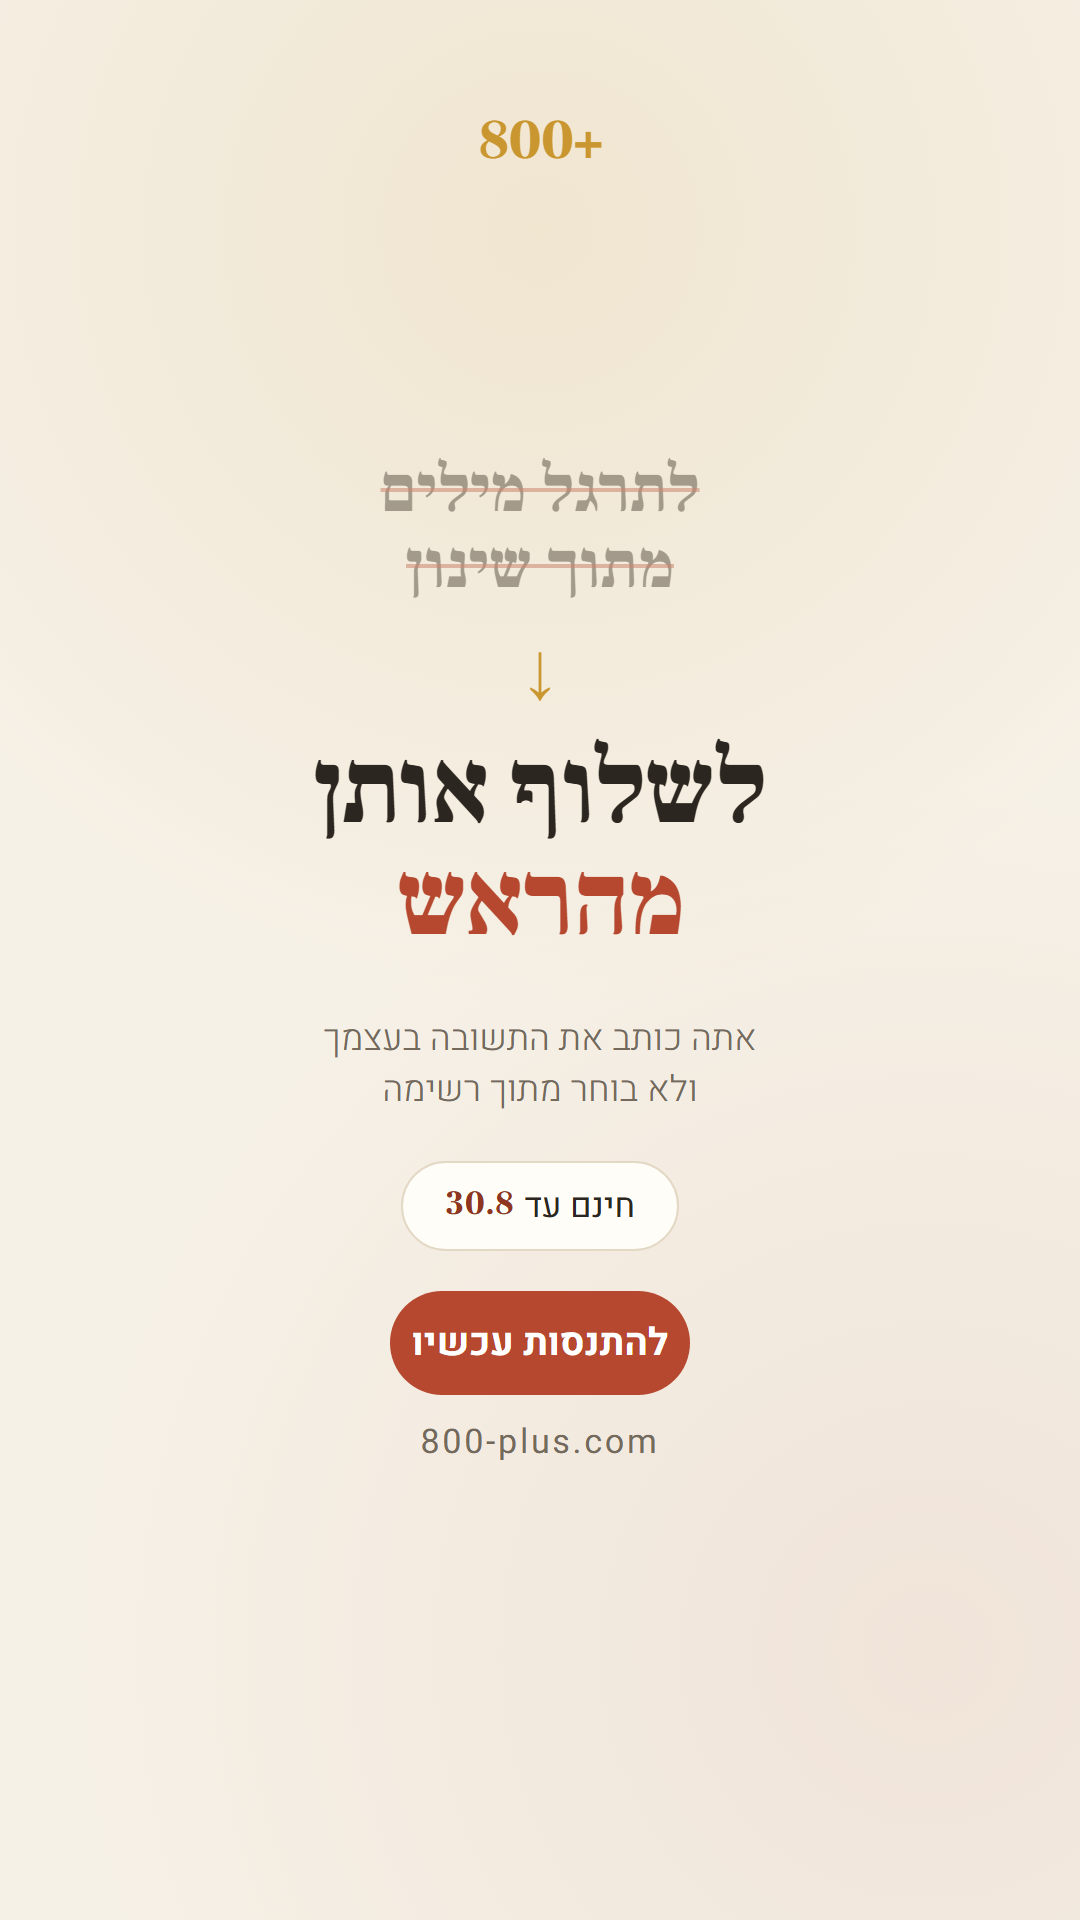
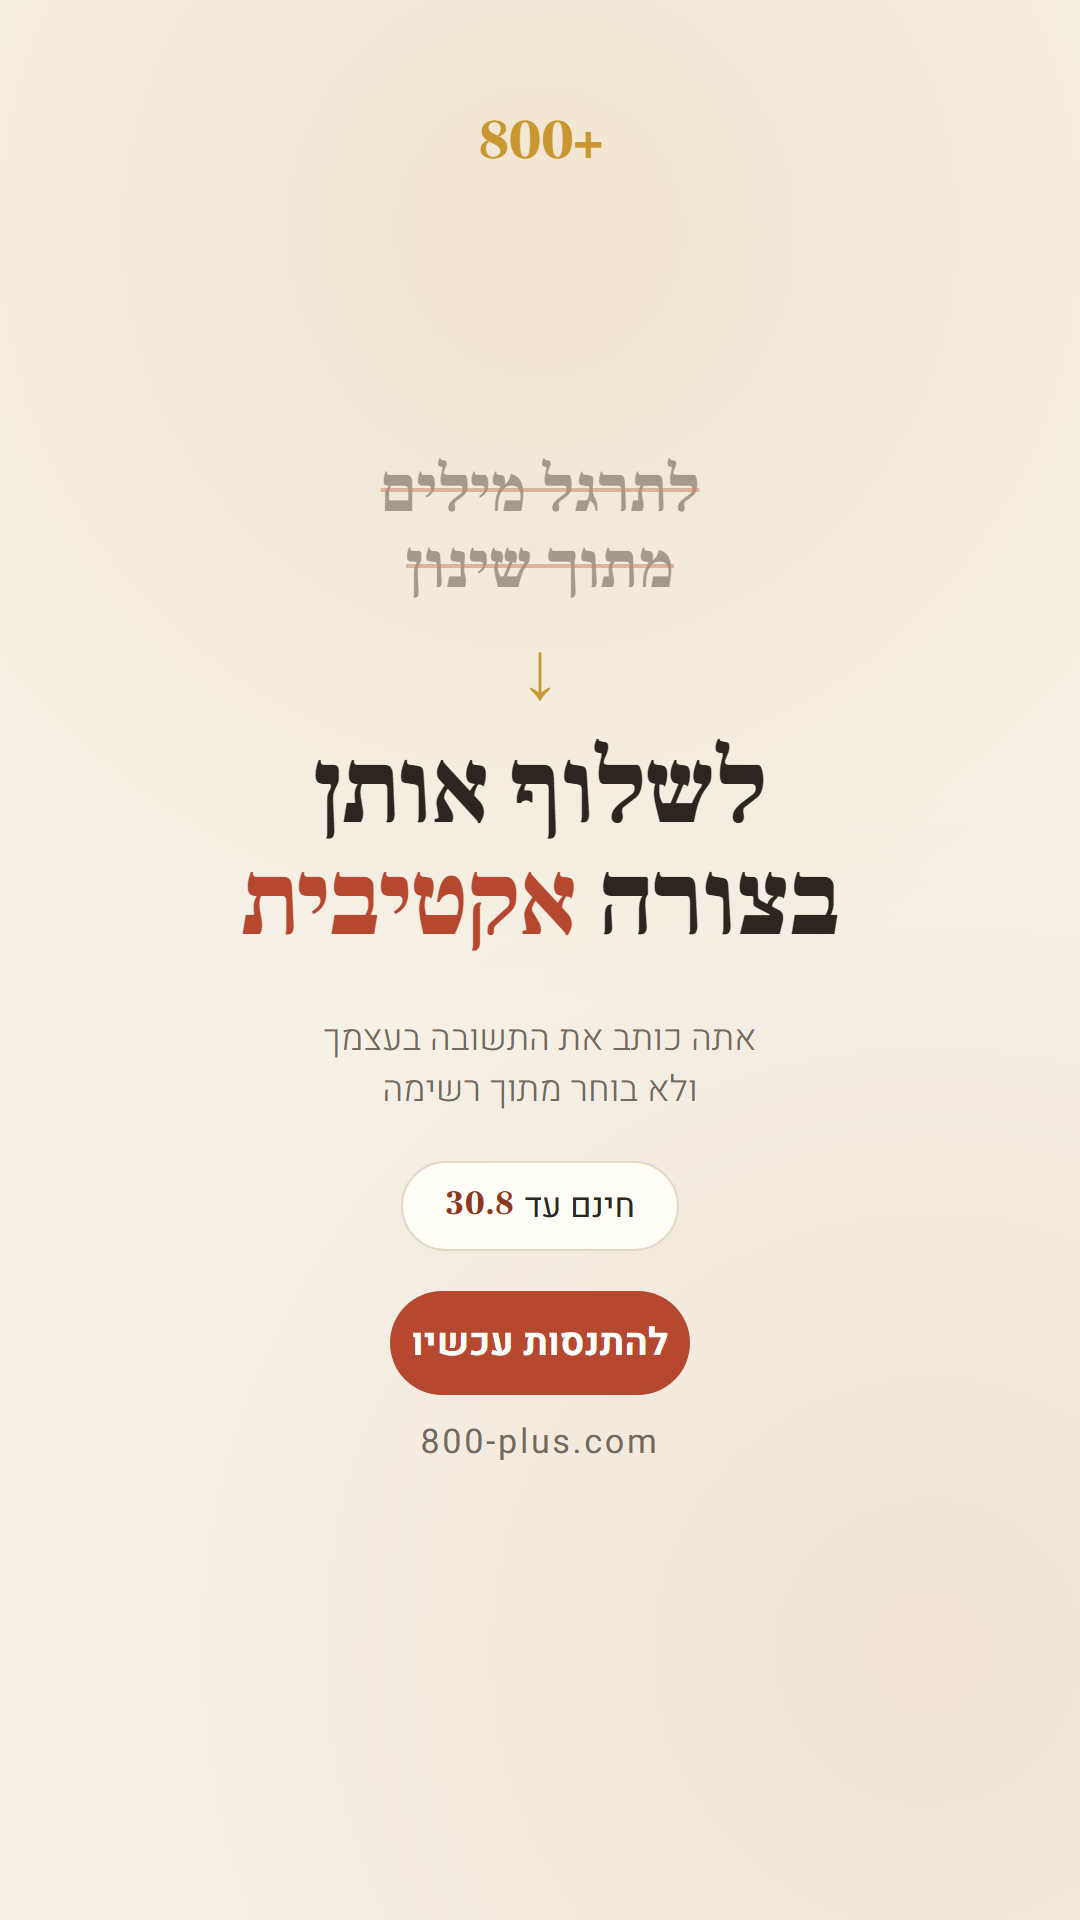
שיווק · "מהראש" הוחלף ב"בצורה אקטיבית" בסטורי השינון
בהוראת חגי. ההדגשה על "אקטיבית" בלבד ולא על "בצורה אקטיבית",
לפי סעיף 3 של VIS: המילה שנושאת את ההבדל היא זו שמקבלת את הצבע.

Changed region(s): [[0.2139, 0.4375, 0.7944, 0.5]]

diff --git a/שיווק/תמונות/סטורי-שינון.html b/שיווק/תמונות/סטורי-שינון.html
@@ -60,7 +60,10 @@ body{background:#1a1712;font-family:"Heebo",sans-serif;display:flex;justify-cont
 
   <div class="old">לתרגל מילים<br>מתוך שינון</div>
   <div class="arrow">↓</div>
-  <div class="new">לשלוף אותן<br><em>מהראש</em></div>
+  <!-- הניסוח של חגי, 5.8. "מהראש" הוחלף ב"בצורה אקטיבית".
+       ההדגשה על "אקטיבית" בלבד ולא על "בצורה אקטיבית", לפי סעיף 3 של VIS:
+       המילה שנושאת את ההבדל היא זו שמקבלת את הצבע. -->
+  <div class="new">לשלוף אותן<br>בצורה <em>אקטיבית</em></div>
 
   <div class="note">אתה כותב את התשובה בעצמך<br>ולא בוחר מתוך רשימה</div>
 
